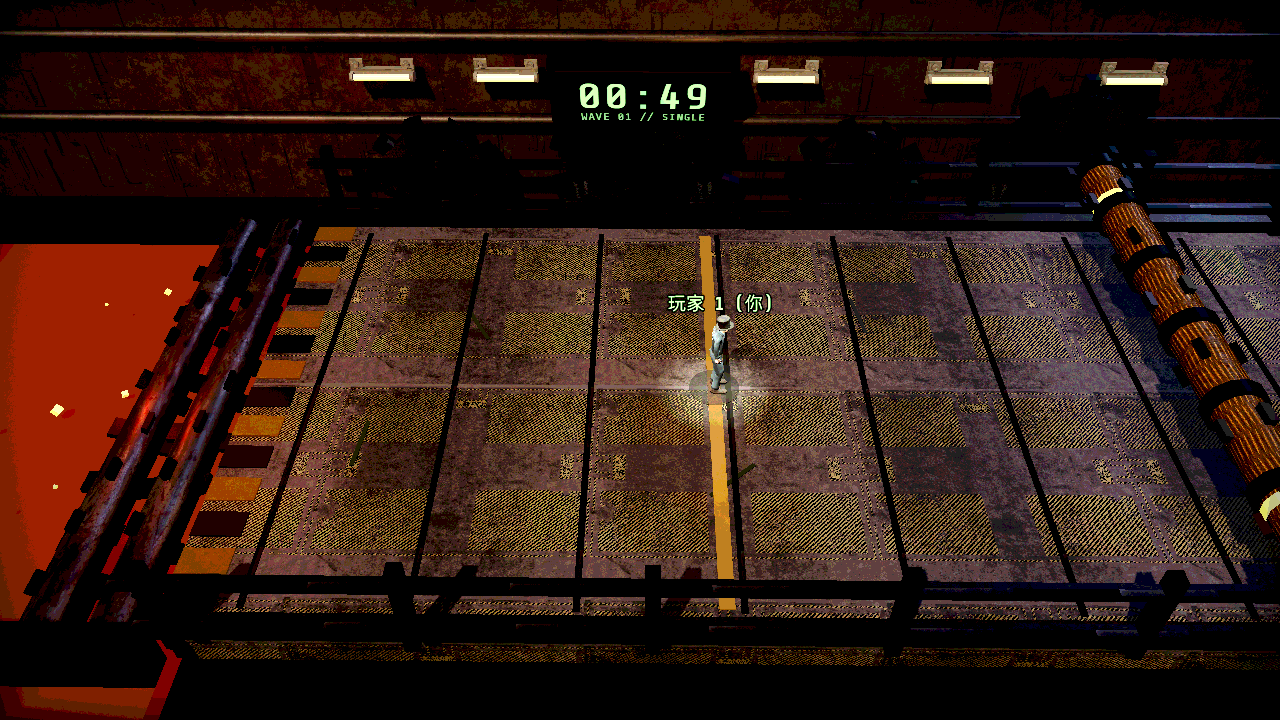
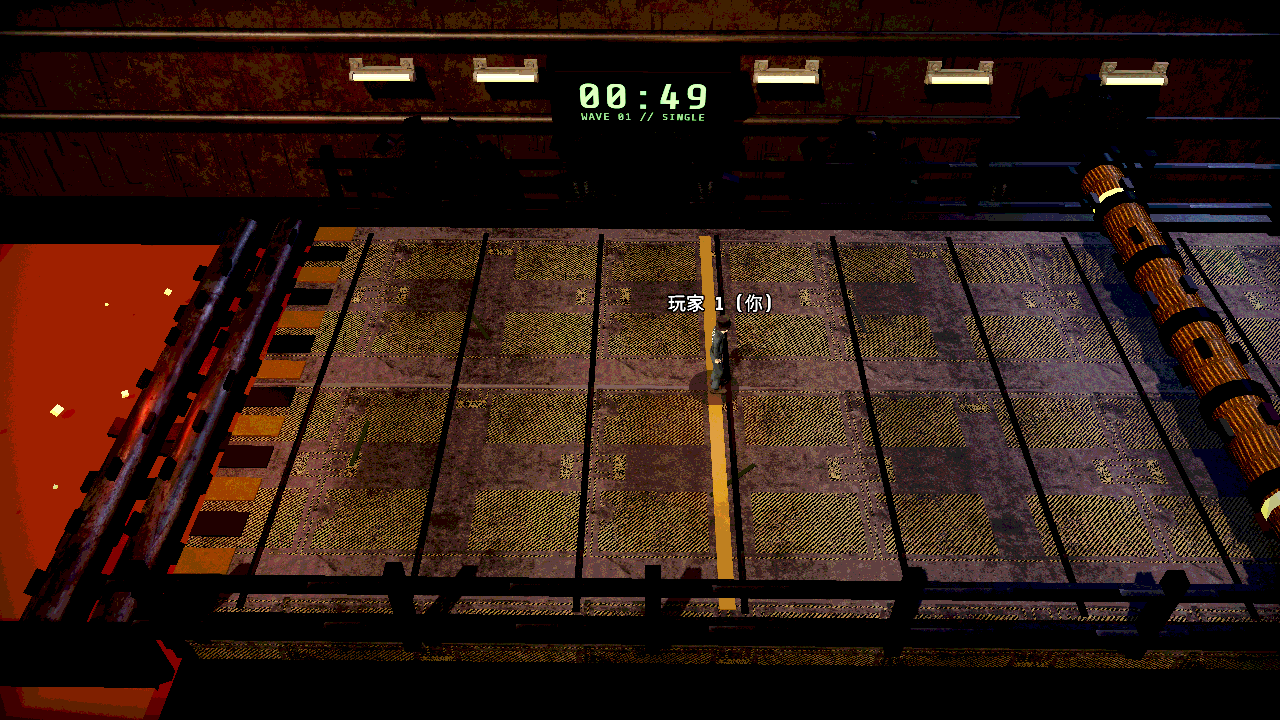
Release Roller Carnival v0.1.5 with FX warmup and spotlight cleanup

diff --git a/apps/desktop/src-tauri/src/catalog.rs b/apps/desktop/src-tauri/src/catalog.rs
@@ -562,7 +562,7 @@ mod tests {
             .package
             .as_ref()
             .expect("roller-carnival package present");
-        assert_eq!(roller_pkg.filename, "roller-carnival-0.1.4.zip");
+        assert_eq!(roller_pkg.filename, "roller-carnival-0.1.5.zip");
         assert!(roller_pkg.mirror_approved);
         assert!(roller.adapter.as_ref().unwrap().auto_loader);
         assert_eq!(
@@ -575,7 +575,7 @@ mod tests {
         );
         assert_eq!(
             download_url(&roller).unwrap(),
-            "https://machineparty.ailaogong.men/v1/downloads/roller-carnival/v0.1.4/1015"
+            "https://machineparty.ailaogong.men/v1/downloads/roller-carnival/v0.1.5/1017"
         );
     }
 }

diff --git a/mods/roller-carnival/README.md b/mods/roller-carnival/README.md
@@ -5,7 +5,7 @@
 ![滾筒嘉年華小遊戲圖示](../../apps/desktop/ui/images/roller-carnival.png)
 
 - **模組 ID**：`roller-carnival`
-- **版本**：`0.1.4`（目錄清單對應 `v0.1.4`）
+- **版本**：`0.1.5`（目錄清單對應 `v0.1.5`）
 - **授權**：`GPL-3.0-only`
 - **目標遊戲版本**：Steam Windows `v2.1.2`
 - **開發與打包規範**：[自研模組開發、測試、接入與打包規範](../../docs/zh-TW/development/mod-development.md) · [ADR-009](../../docs/zh-TW/architecture/ADR-009-bundled-first-party-mods.md)
@@ -13,16 +13,19 @@
 ## 核心玩法與計分規則
 
 - **純淨橫向躲避＋擊退淘汰**：
-  - **金色高滾筒**：出現於中層高度，需按 `S` 或 `↓` **下蹲**閃避。
-  - **銀色低滾筒**：貼地滾動，需按 `Space`（空白鍵）**跳躍**越過。
-  - **只推擠不扣血**：被滾筒撞擊不會扣減 HP，而是累積向左擊退約一個身位；玩家被推落左側岩漿即立刻淘汰。
+  - **高處琥珀壓碎滾筒**：出現於中層高度，需按住 `S` 或 `↓` **下蹲**閃避。
+  - **低處冷鋼滾筒**：貼地滾動，需按 `Space` / `W` / `↑` **跳躍**越過。
+  - **只推擠不扣血**：被滾筒撞擊不會扣減 HP，而是觸發原版噴血與地面血跡貼花，並累積向左擊退約一個身位；被推入左側**雙軸粉碎熔爐坑**即立刻淘汰（觸發原版血霧與碎塊特效）。
 - **同一起跑線齊平站位與動態人數（1–16 人）**：
   - 全員沿場景內側垂直黃銅起跑線一字排開，無水平移動操作，聚焦精準跳蹲時機。
-  - 連線時依實際參賽名單生成角色，房主判定碰撞、淘汰與得分。
-- **對局畫面**：開場切到場地俯視鏡頭，角色從上方落到起跑線，中央倒數三秒，開始後只保留場內角色名牌與動作回饋。連線結束時由本體顯示成績，單機試玩於結束後顯示排名。
+  - 連線時依實際參賽名單與大廳外觀（帽子、眼鏡、西裝顏色）生成角色，房主判定碰撞、淘汰與得分，客端同步受擊血跡與動畫。
+- **原版 CRT 介面與對局畫面**：
+  - 開場播放 CRT 黑色過場幕（`ROUND X/Y` + 螢光綠標語）、原版「你 / YOU」四角定位框與 3-2-1-GO 機械倒數。
+  - 場內後牆設有 3D CRT 倒數與波次監視器（最後 10 秒轉紅閃爍並提示音），搭配全螢幕暗角與 8 階色階後處理。
+  - 僅保留純白粗黑框原版名牌；若想額外強化辨識自己，可搭配安裝獨立工具模組 [`player-spotlight`](../player-spotlight/README.md)（本模組已內建 `mpm_local_player` 標記供其自動接管）。
 - **安全間隔底線保證**：
-  - 50 秒分成三段：前 10 秒先認識單根，之後每組兩根，32 秒起每組三根。固定透視鏡頭對準玩家，滾筒從右側進入畫面，每組之間留有喘息。
-  - 滾筒生成間隔強制滿足 `jump_air_time + landing_recovery_time + min_safe_reaction_time`，避免無解連發陷阱；另有 `max_same_type_streak` 限制同色連發。
+  - 50 秒分成三段：`WAVE 01 // SINGLE`（前 10 秒單根）→ `WAVE 02 // DOUBLE`（每組兩根）→ `WAVE 03 // OVERDRIVE`（32 秒起每組三根）。
+  - 滾筒生成間隔強制滿足 `jump_air_time + landing_recovery_time + min_safe_reaction_time`，避免無解連發陷阱；另有 `max_same_type_streak` 限制同型連發。
 - **依躲避數排名與階梯加分**：
   - 每次安全閃過滾筒累積 +1 次躲避；回合結束依躲避數排序發放排名加分（原始分為人數減名次加一，同躲避數並列；雙人第一、第二名分別提交 2、1 分，官方主遊戲套用倍率）。
 
@@ -30,19 +33,31 @@
 
 | 環境 | 按鍵 | 功能 |
 | --- | --- | --- |
-| 遊戲對局 | `S` / `↓` | 按住下蹲，鬆手即起身；最多蹲 0.75 秒，再蹲需放開重按 |
+| 遊戲對局 | `S` / `↓` | 按住下蹲閃避高處琥珀滾筒，鬆手即起身；最多蹲 0.75 秒，再蹲需放開重按 |
 | 遊戲對局 | `Space` / `W` / `↑` | 跳躍越過低處冷鋼滾筒 |
 
-## 遊戲整合與雙人驗收
+## Windows 實機安裝、使用與驗收流程
 
-- **輪換與挑選器整合**：透過 `override_game.gd`、`override_playlist.gd` 與 `override_picker.gd` 將槽位 `ShapeCutter (6)` 註冊為「滾筒嘉年華」，同步補齊歌單項目與 15 格過場 CRT 挑選器圖示及操作教學卡。
-- 雙方安裝同一版本，房主建立自訂清單，只選滾筒嘉年華、兩輪。兩人載入後自動倒數三秒，使用預設 50 秒規則。
-- 第一輪房主跳、客人長按蹲，再交換。雙方都應看到對應角色動作，長按只蹲一次。遊戲後段速度提高、出筒間隔縮短。
-- 一人刻意撞筒，另一人閃避。雙方應看到相同淘汰與分數，第二輪可正常繼續。
+### 1. 安裝方式
+- **透過管理器安裝（推薦）**：確認 Windows 已安裝 Steam 版 *Machine Party* `v2.1.2`（遊戲需先關閉），於管理器點選安裝／更新 **Roller Carnival (`v0.1.5`)**；若需同時啟用僅自己可見的頭頂聚光燈，一併安裝 **Player Spotlight (`v0.1.0`)**。管理器會自動設定內建載入器。
+- **本機開發包直接實測**：在倉庫執行 `node scripts/pack-mod.mjs roller-carnival`（以及 `node scripts/pack-mod.mjs player-spotlight`），將對應 ZIP 解壓至遊戲目錄的 `mods/roller-carnival/`（與 `mods/player-spotlight/`），確認載入器已啟用後從 Steam 啟動遊戲。
+
+### 2. 遊戲內使用流程
+1. 從 Steam 啟動 *Machine Party*，建立線上房間（多人連線時，**房主與所有參賽玩家皆須安裝同版本 `roller-carnival`**；`player-spotlight` 則僅需想開啟聚光燈的玩家各自安裝）。
+2. 在大廳可自由更換帽子、眼鏡與西裝顏色；進入自訂播放清單（Custom Playlist）勾選 **滾筒嘉年華（Roller Carnival）**（建議先選 2 輪測試），或直接開預設／街機輪換等待過場 CRT 抽中。
+3. 過場 CRT 簡報會依遊戲語系顯示繁中／簡中／英文規則與操作提示；進入對局後等待黑幕與 `3-2-1-GO!` 結束即可開始跳蹲躲避。
+
+### 3. Windows 雙人實機驗收清單
+- **輪換與過場簡報**：確認自訂歌單、15 格過場 CRT 圖示與簡報說明（含繁／簡／英切換）正常顯示。
+- **外觀與開場 UI**：確認雙方大廳穿戴的帽子／眼鏡／西裝顏色正確同步；CRT 黑幕、「你 / YOU」四角框與 3-2-1-GO 倒數及音效無異常。
+- **操作與同步**：第一輪房主跳（測試 `Space` / `W` / `↑`）、客人長按蹲（`S` / `↓`，長按只蹲一次），再交換確認雙方動作同步與後段波次加速。
+- **血跡、流暢度與淘汰**：故意撞擊滾筒確認**首次受擊噴血無明顯卡頓**、地面產生暗紅貼花（不浮空穿幫）、雙方皆看到受擊與推入粉碎坑的血霧碎塊，第二輪可正常銜接且分數正確結算。
+- **搭配 `player-spotlight`（選測）**：確認僅自己看得到頭頂工業聚光燈、按 `F8` 可即時開關、淘汰後自動熄滅。
+- **卸載與還原**：關閉遊戲後於管理器執行離線卸載，確認原版 `Machine Party.pck` 無損還原。
 
 ## 檔案結構（打入 R2 ZIP vs. 本機開發檔案）
 
-依 [`scripts/pack-mod.mjs`](../../scripts/pack-mod.mjs) 規則，僅以下**執行期檔案**會被封裝為確定性 `roller-carnival-0.1.4.zip` 並隨目錄 Worker 與 R2 分發：
+依 [`scripts/pack-mod.mjs`](../../scripts/pack-mod.mjs) 規則，僅以下**執行期檔案**會被封裝為確定性 `roller-carnival-0.1.5.zip` 並隨目錄 Worker 與 R2 分發：
 
 | 檔案 | 打入 R2 ZIP | 職責 |
 | --- | --- | --- |
@@ -81,7 +96,7 @@ npm run check:architecture && npm test && npm run lint:rust && npm run test:rust
 
 ## 安裝、共存與驗證狀態
 
-- **R2 鏡像分發與自動載入器**：桌面端透過目錄 Worker 從 R2 下載並校驗 `roller-carnival-0.1.4.zip` 的 SHA-256；首次安裝且偵測不到外部載入器時，管理器會透過潔淨室 `pck_loader.rs` + `mpm_bootstrap.gd` 自動設定載入環境；解除安裝最後一個受管模組時會無損截斷還原原版 `Machine Party.pck`。
+- **R2 鏡像分發與自動載入器**：桌面端透過目錄 Worker 從 R2 下載並校驗 `roller-carnival-0.1.5.zip` 的 SHA-256；首次安裝且偵測不到外部載入器時，管理器會透過潔淨室 `pck_loader.rs` + `mpm_bootstrap.gd` 自動設定載入環境；解除安裝最後一個受管模組時會無損截斷還原原版 `Machine Party.pck`。
 - **外部載入器與互斥**：若玩家遊戲目錄已有 `MachinePartyModLoader.exe`，會保留原有載入器僅放入 `mods/roller-carnival/`；與 `overtime` 等直接修補 PCK 檔案的模組保持互斥保護。
 - **目前驗證狀態**：
   - ✅ macOS Godot 4.5.2 語法檢查與 `--self-test` 通過、`scripts/pack-mod.mjs` 確定性 ZIP 與 Rust L1/L3 原版 Steam v2.1.2 `Machine Party.pck` 寫入/無損還原模擬測試通過。

diff --git a/mods/player-spotlight/README.md b/mods/player-spotlight/README.md
@@ -1,9 +1,18 @@
 # Player Spotlight · 玩家聚光燈 · 玩家聚光灯
 
-**繁體中文**　安裝後從 Steam 照常開遊戲，會自動在所有原版 3D 小遊戲與自研小遊戲中，為**你自己的角色**打上一束只有自己看得到的頭頂工業聚光燈，並將自己的名牌微調為淡 CRT 螢光綠。跳躍時光斑留在原位方便辨識落點，淘汰後自動熄燈；自動避開大廳、過場與第一人稱關卡，不影響其他玩家畫面。遊戲中隨時可按 `F8` 開關。僅需自己安裝即可生效，可與所有載入器模組共存；與「滾筒嘉年華」同裝時會自動接管打光不重複疊加。
+**繁體中文**　安裝後從 Steam 照常開遊戲，會自動在所有原版 3D 小遊戲與自研小遊戲（含「滾筒嘉年華」）中，為**你自己的角色**打上一束只有自己看得到的頭頂工業聚光燈，並將自己的名牌微調為淡 CRT 螢光綠。跳躍時光斑留在原位方便辨識落點，淘汰後自動熄燈；自動避開大廳、過場與第一人稱關卡，不影響其他玩家畫面。遊戲中隨時可按 `F8` 開關。僅需自己安裝即可生效，可與所有載入器模組共存。
 
-**简体中文**　安装后从 Steam 正常启动，会自动在所有原版 3D 小游戏与自研小游戏中，为**你自己的角色**打上一束仅自己可见的头顶工业聚光灯，并将自己的名牌微调为淡 CRT 荧光绿。跳跃时光斑留在原位方便辨识落点，淘汰后自动熄灯；自动避开大厅、过场与第一人称关卡，不影响其他玩家画面。游戏中随时可按 `F8` 开关。仅需自己安装即可生效，可与所有加载器模组共存；与「滚筒嘉年华」同装时会自动接管打光不重复叠加。
+**简体中文**　安装后从 Steam 正常启动，会自动在所有原版 3D 小游戏与自研小游戏（含「滚筒嘉年华」）中，为**你自己的角色**打上一束仅自己可见的头顶工业聚光灯，并将自己的名牌微调为淡 CRT 荧光绿。跳跃时光斑留在原位方便辨识落点，淘汰后自动熄灯；自动避开大厅、过场与第一人称关卡，不影响其他玩家画面。游戏中随时可按 `F8` 开关。仅需自己安装即可生效，可与所有加载器模组共存。
 
-**English**　Launch normally from Steam to shine a local-only overhead industrial spotlight onto **your own character** across vanilla and first-party 3D minigames, with a subtle CRT phosphor-green tint on your own nametag. The light pool stays anchored underneath you for quick positioning, switches off on elimination, and automatically skips the lobby, intermission, and first-person minigames. Press `F8` anytime to toggle. Client-side only and compatible with all loader mods; automatically takes over from Roller Carnival's built-in spotlight when both are installed.
+**English**　Launch normally from Steam to shine a local-only overhead industrial spotlight onto **your own character** across vanilla and first-party 3D minigames (including Roller Carnival), with a subtle CRT phosphor-green tint on your own nametag. The light pool stays anchored underneath you for quick positioning, switches off on elimination, and automatically skips the lobby, intermission, and first-person minigames. Press `F8` anytime to toggle. Client-side only and compatible with all loader mods.
+
+## Windows 使用與實測流程 / Windows Usage & Test Flow
+
+1. **安裝（Install）**：透過管理器安裝 **Player Spotlight (`v0.1.0`)**，或執行 `node scripts/pack-mod.mjs player-spotlight` 後將 ZIP 解壓至遊戲目錄的 `mods/player-spotlight/`。此模組為純用戶端效果，其他玩家無需安裝。
+2. **啟動與切換（Play & Toggle）**：從 Steam 照常啟動遊戲；進入任何第三人稱 3D 小遊戲後會自動為自己點亮頭頂聚光燈，對局中隨時按 `F8` 切換開關並即時還原名牌原色。
+3. **實機檢查重點（Checklist）**：
+   - 大廳（Lobby）、過場（Intermission）與第一人稱關卡不應出現聚光燈。
+   - 原版 3D 小遊戲（如 Disco Dodge、Escalator Pit、Junk Platform、DVD Roomba）與「滾筒嘉年華」中，只有自己看得到頭頂光斑，且不隨角色轉向或擊飛亂晃。
+   - 角色被淘汰後聚光燈立刻熄滅；離開關卡後無殘留燈光或報錯。
 
 `mod.json` declares the loader entry. `main.gd` tracks the local player node across scenes without overriding vanilla scripts. Target: Steam v2.1.2. Windows Steam room acceptance pending. Package check: `node scripts/pack-mod.mjs player-spotlight --verify-catalog`.

diff --git a/README.md b/README.md
@@ -78,7 +78,7 @@ The table lists the versions in this repository’s [catalog](catalog/mods.json)
 | [MachineParty+](https://github.com/Ghostx10742/MachineParty-Plus) | `v2.1.0` | Public lobbies, voice chat and text chat | Native MPML |
 | [Broadcast 8P Freecam](https://github.com/Lnksoul/MachineParty_Broadcast8P_Freecam_Patcher) | `v0.91` | Eight players, rotating teams and director free camera | Author resource tree → MPML |
 | [Binary1936 eight-player mod](https://github.com/Binary1936/machine-party-8p) | `v1.5` | Expands online play to eight players | Author resource tree → MPML |
-| [Roller Carnival](https://github.com/JamesGZM/machine-party-mod-manager/tree/main/mods/roller-carnival) | `v0.1.4` | Mechanical carnival dodge minigame | Native MPML |
+| [Roller Carnival](https://github.com/JamesGZM/machine-party-mod-manager/tree/main/mods/roller-carnival) | `v0.1.5` | Mechanical carnival dodge minigame | Native MPML |
 | [Lobby Bots](https://github.com/JamesGZM/machine-party-mod-manager/tree/main/mods/lobby-bots) | `v0.2.2` | Add or remove ready bots in online rooms. | Native MPML |
 | [Standalone HD](https://github.com/JamesGZM/machine-party-mod-manager/tree/main/mods/standalone-hd) | `v0.1.1` | Sharper 3D rendering with the existing window and HUD layout | Native MPML |
 | [Player Spotlight](https://github.com/JamesGZM/machine-party-mod-manager/tree/main/mods/player-spotlight) | `v0.1.0` | Local-only overhead industrial spotlight on your own character across 3D minigames | Native MPML |

diff --git a/docs/readme/README.zh-TW.md b/docs/readme/README.zh-TW.md
@@ -78,7 +78,7 @@ Windows 下載後執行 NSIS 安裝程式即可；Apple Silicon Mac 解壓封存
 | [MachineParty+](https://github.com/Ghostx10742/MachineParty-Plus) | `v2.1.0` | 公開房間、語音與文字聊天 | 原生 MPML |
 | [Broadcast 8P Freecam](https://github.com/Lnksoul/MachineParty_Broadcast8P_Freecam_Patcher) | `v0.91` | 八人團播、四隊輪換與導播自由鏡頭 | 作者資源目錄 → MPML |
 | [八人連線模組](https://github.com/Binary1936/machine-party-8p) | `v1.5` | 將線上遊戲擴充至 8 人 | 作者資源目錄 → MPML |
-| [滾筒嘉年華](https://github.com/JamesGZM/machine-party-mod-manager/tree/main/mods/roller-carnival) | `v0.1.4` | 機械狂歡躲避小遊戲 | 原生 MPML |
+| [滾筒嘉年華](https://github.com/JamesGZM/machine-party-mod-manager/tree/main/mods/roller-carnival) | `v0.1.5` | 機械狂歡躲避小遊戲 | 原生 MPML |
 | [Lobby Bots](https://github.com/JamesGZM/machine-party-mod-manager/tree/main/mods/lobby-bots) | `v0.2.2` | 房主可加入或移除預設就緒的測試機器人。 | 原生 MPML |
 | [獨立高清](https://github.com/JamesGZM/machine-party-mod-manager/tree/main/mods/standalone-hd) | `v0.1.1` | 提高 3D 渲染清晰度，保留視窗模式與 HUD 配置 | 原生 MPML |
 | [玩家聚光燈](https://github.com/JamesGZM/machine-party-mod-manager/tree/main/mods/player-spotlight) | `v0.1.0` | 在所有 3D 小遊戲中只為自己點亮頭頂工業聚光燈 | 原生 MPML |

diff --git a/docs/readme/README.zh-CN.md b/docs/readme/README.zh-CN.md
@@ -78,7 +78,7 @@ Windows 下载后运行 NSIS 安装程序即可；Apple Silicon Mac 解压归档
 | [MachineParty+](https://github.com/Ghostx10742/MachineParty-Plus) | `v2.1.0` | 公开房间、语音与文字聊天 | 原生 MPML |
 | [Broadcast 8P Freecam](https://github.com/Lnksoul/MachineParty_Broadcast8P_Freecam_Patcher) | `v0.91` | 8 人团播、四队轮换与导播自由镜头 | 作者资源目录 → MPML |
 | [八人联机模组](https://github.com/Binary1936/machine-party-8p) | `v1.5` | 将在线游戏扩展至 8 人 | 作者资源目录 → MPML |
-| [滚筒嘉年华](https://github.com/JamesGZM/machine-party-mod-manager/tree/main/mods/roller-carnival) | `v0.1.4` | 机械狂欢躲避小游戏 | 原生 MPML |
+| [滚筒嘉年华](https://github.com/JamesGZM/machine-party-mod-manager/tree/main/mods/roller-carnival) | `v0.1.5` | 机械狂欢躲避小游戏 | 原生 MPML |
 | [Lobby Bots](https://github.com/JamesGZM/machine-party-mod-manager/tree/main/mods/lobby-bots) | `v0.2.2` | 房主可添加或移除默认就绪的测试机器人。 | 原生 MPML |
 | [独立高清](https://github.com/JamesGZM/machine-party-mod-manager/tree/main/mods/standalone-hd) | `v0.1.1` | 提高 3D 渲染清晰度，保留窗口模式和 HUD 布局 | 原生 MPML |
 | [玩家聚光灯](https://github.com/JamesGZM/machine-party-mod-manager/tree/main/mods/player-spotlight) | `v0.1.0` | 在所有 3D 小游戏中只为自己点亮头顶工业聚光灯 | 原生 MPML |

diff --git a/mods/README.md b/mods/README.md
@@ -12,7 +12,7 @@ This directory holds GDScript mods authored in `machine-party-mod-manager`. Ever
 
 | ID | Name | Version | Package ZIP | Game Compatibility | Windows Verification | Documentation |
 | --- | --- | --- | --- | --- | --- | --- |
-| `roller-carnival` | Roller Carnival (滾筒嘉年華) | `0.1.4` | `roller-carnival-0.1.4.zip` | Steam `v2.1.2` | Pending physical Windows test | [mods/roller-carnival/README.md](roller-carnival/README.md) |
+| `roller-carnival` | Roller Carnival (滾筒嘉年華) | `0.1.5` | `roller-carnival-0.1.5.zip` | Steam `v2.1.2` | Pending physical Windows test | [mods/roller-carnival/README.md](roller-carnival/README.md) |
 | `lobby-bots` | Lobby Bots (房間機器人) | `0.2.2` | `lobby-bots-0.2.2.zip` | Steam `v2.1.2` | Pending physical Windows test | [Lobby Bots](lobby-bots/README.md) |
 | `standalone-hd` | Standalone HD (獨立高清) | `0.1.1` | `standalone-hd-0.1.1.zip` | Steam `v2.1.2` | Pending physical Windows test | [Standalone HD](standalone-hd/README.md) |
 | `player-spotlight` | Player Spotlight (玩家聚光燈) | `0.1.0` | `player-spotlight-0.1.0.zip` | Steam `v2.1.2` | Pending physical Windows test | [Player Spotlight](player-spotlight/README.md) |
